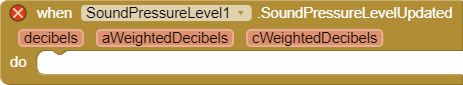
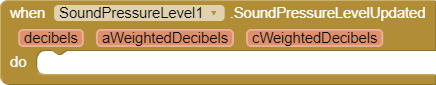
Fix file extensions and errors in blocks for SPL docs

diff --git a/SoundPressureLevel/SoundPressureLevel.md b/SoundPressureLevel/SoundPressureLevel.md
@@ -20,19 +20,19 @@ This permission can be granted while running or before starting the application.
 To ask for permission while running, include an `AskForPermission` block from the screen component, and request the "RECORD_AUDIO" permission by passing that text to the `permissionName` parameter.
 
 ## Properties
-![Is Sound Pressure Available Block](SPLBlocksImages/splAvailable.JPG)
+![Is Sound Pressure Available Block](SPLBlocksImages/splAvailable.PNG)
 
 Indicates whether or not there is a microphone available to measure sound pressure.
 
-![Is Sound Pressure Enabled Block](SPLBlocksImages/splEnabled.JPG)
+![Is Sound Pressure Enabled Block](SPLBlocksImages/splEnabled.PNG)
 
 Indicates whether or not the microphone is measuring sound pressure.
 
-![Set Sound Pressure Enabled Block](SPLBlocksImages/setSPLEnabled.JPG)
+![Set Sound Pressure Enabled Block](SPLBlocksImages/setSPLEnabled.PNG)
 
 Sets the sensor's `Enabled` flag to `true` to turn the extension on and `false` to turn the extension off.
 
-![Get Sound Pressure Level Block](SPLBlocksImages/splData.JPG)
+![Get Sound Pressure Level Block](SPLBlocksImages/splData.PNG)
 
 Gets the sound pressure level data in decibels (dB). The measurement reported by this call is unweighted.
 
